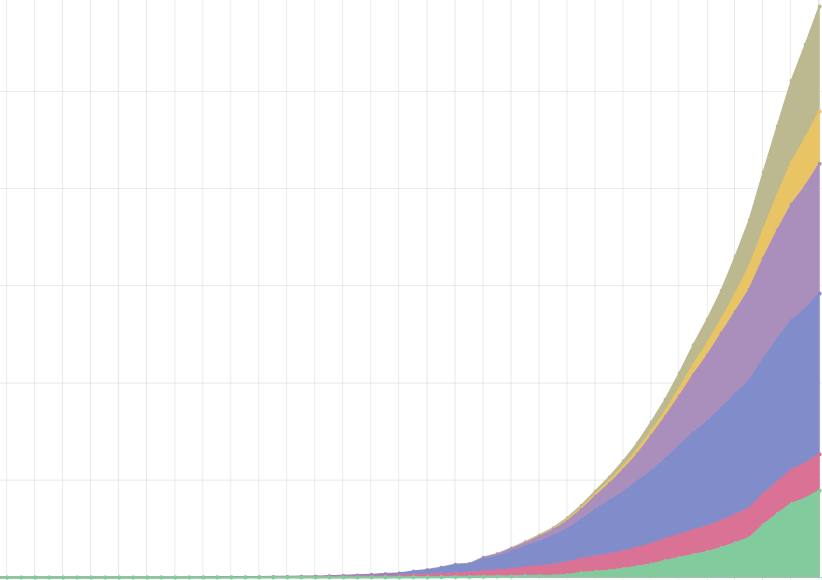
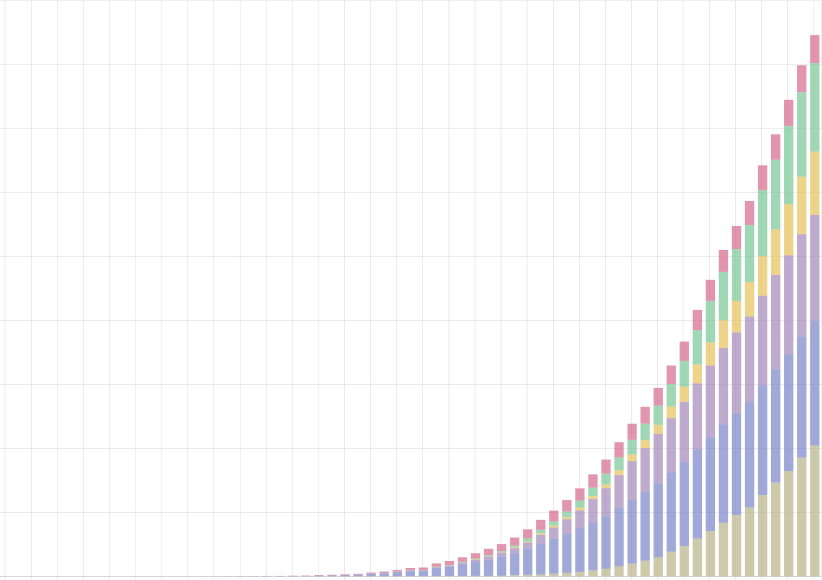
add single stacked region preset

Changed region(s): [[0.0, 0.0, 1.0, 1.0]]

diff --git a/app/utils/presets.js b/app/utils/presets.js
@@ -4,10 +4,12 @@ class Preset {
   title = null
   _description = null
   params = null
+  singleRegion = null
 
-  constructor({ title, description, params }) {
+  constructor({ title, description, singleRegion, params }) {
     this.title = title
     this._description = description
+    this.singleRegion = singleRegion
     this.params = params
   }
 
@@ -26,6 +28,7 @@ const presets = {
     params: {
       xSelection: 'start',
       xLog: false,
+      xStartOffset: 5,
 
       ySelection: 'confirmed',
       yChange: true,
@@ -105,6 +108,7 @@ const presets = {
     params: {
       xSelection: 'start',
       xLog: false,
+      xStartOffset: 5,
 
       ySelection: 'active',
       yChange: false,
@@ -112,6 +116,27 @@ const presets = {
       yRatio: true,
 
       stacked: false
+    }
+  }),
+
+  single: new Preset({
+    title: 'State of a single region',
+    description: `
+      Shows deaths, recoveries and estimated active cases in a single region. If you currently have multiple regions selected, this will
+      show data for the first one only.
+    `,
+    singleRegion: true,
+    params: {
+      xSelection: 'start',
+      xLog: false,
+      xStartOffset: 5,
+
+      ySelection: 'deceased-recovered-active',
+      yChange: false,
+      yLog: false,
+      yRatio: false,
+
+      stacked: true
     }
   })
 }

diff --git a/app/controllers/application.js b/app/controllers/application.js
@@ -199,6 +199,8 @@ export default class ApplicationController extends Controller {
   presets = presets
 
   @action selectPreset(preset) {
+    if (preset.singleRegion) this.selectFirstRegion()
+
     this.setProperties(preset.params)
     this.showPresetDialog = false
   }
@@ -346,6 +348,31 @@ export default class ApplicationController extends Controller {
     ) {
       // Select first ySelection
       this.ySelection = this.ySelection.split('-')[0]
+    }
+  }
+
+  selectFirstRegion() {
+    let { selectedOptions, regionSortBy, regionOptions } = this
+
+    if (selectedOptions.length !== 1) {
+      let options = selectedOptions.length ? selectedOptions : regionOptions
+
+      if (regionSortBy) {
+        let reverse = regionSortBy.startsWith('-')
+        let key = reverse ? regionSortBy.substr(1) : regionSortBy
+        let sorted = options.sortBy(key)
+        options = reverse ? sorted.reverse() : sorted
+      }
+
+      let firstOption = options.firstObject
+
+      firstOption.selected = true
+      for (let option of selectedOptions) {
+        if (option !== firstOption) option.selected = false
+      }
+
+      selectedOptions.clear()
+      selectedOptions.pushObject(firstOption)
     }
   }
 
